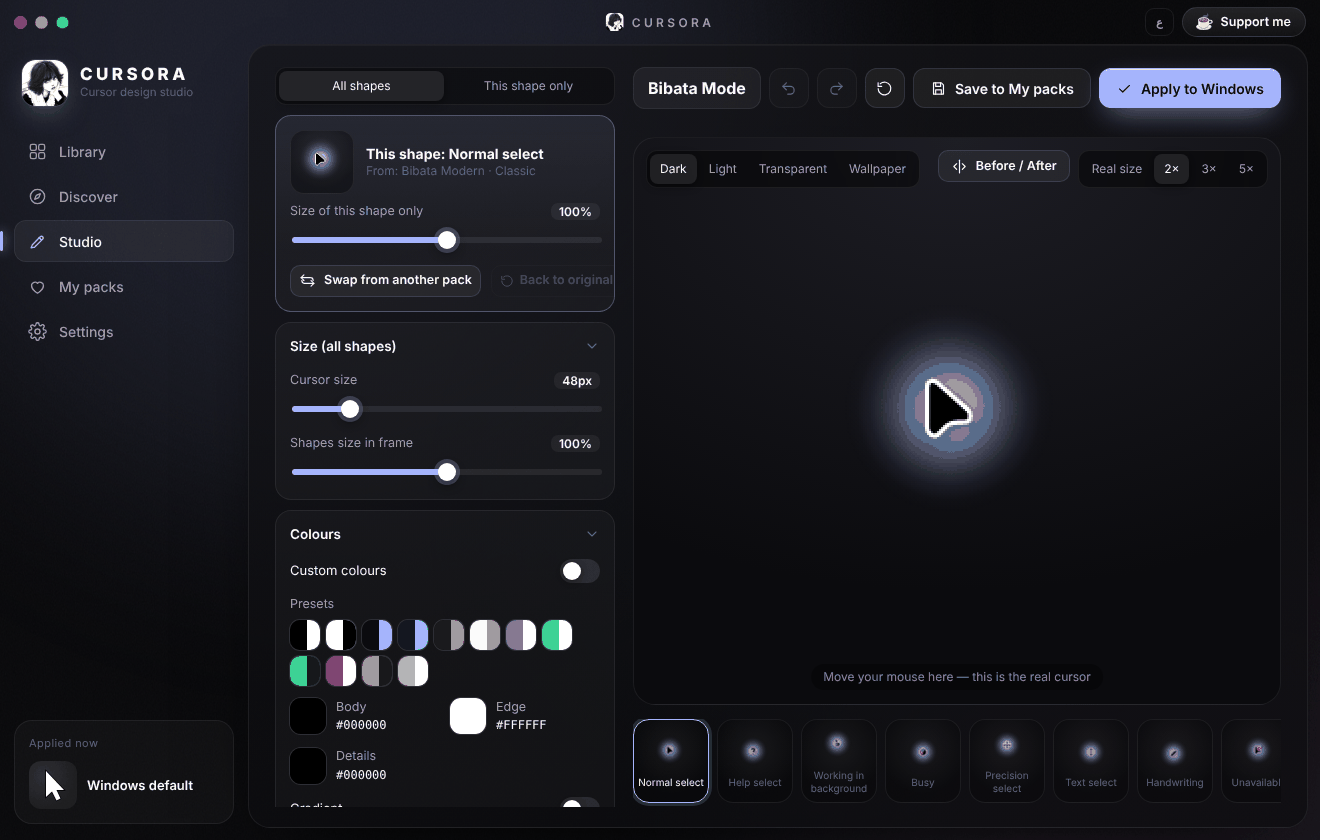
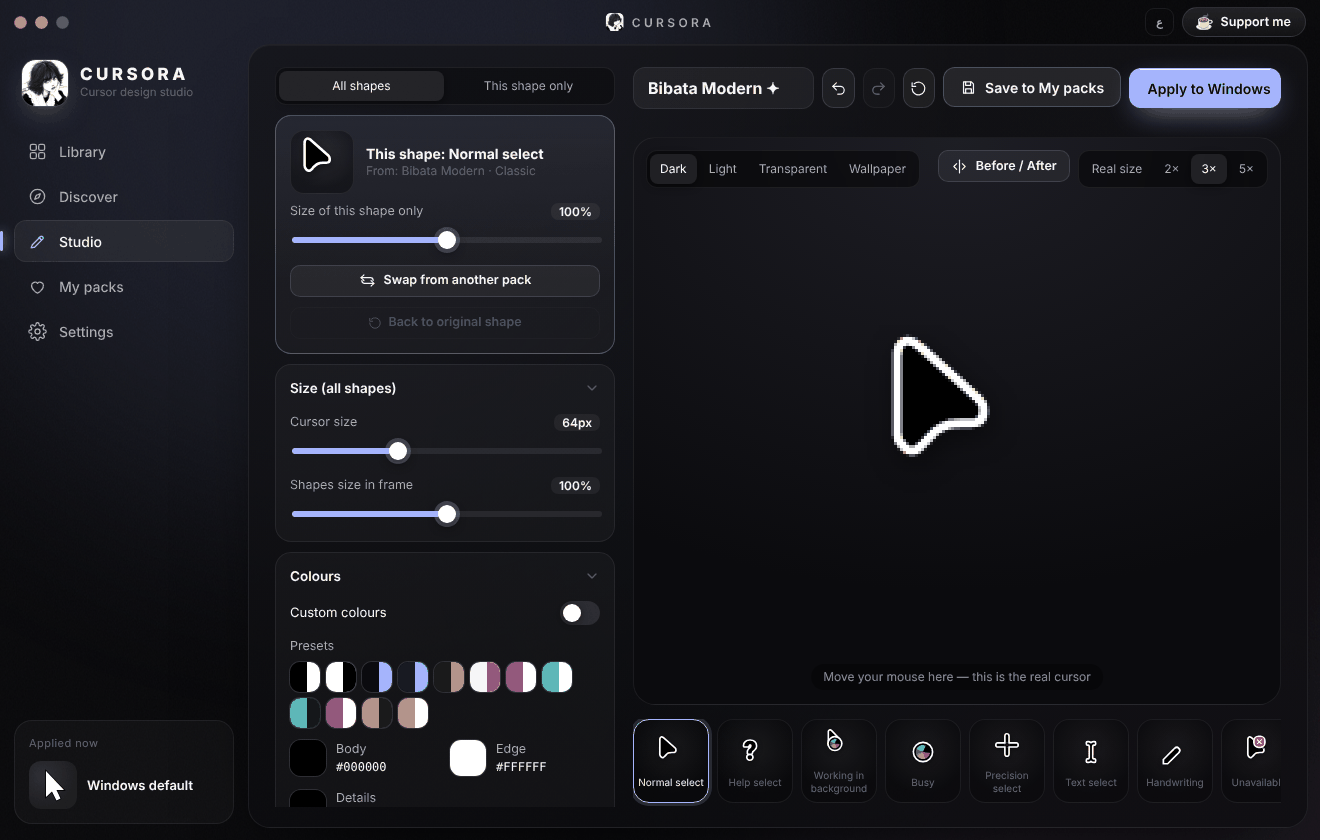
Shape card buttons wrap instead of overflowing; new studio screenshot

diff --git a/ui/styles.css b/ui/styles.css
@@ -350,7 +350,8 @@ select option { background: #18181b; }
 .shape-thumb { width: 64px; height: 64px; flex: none; border-radius: 14px; display: grid; place-items: center; background: radial-gradient(circle at 50% 35%, rgba(255,255,255,.08), transparent 70%), rgba(0,0,0,.35); border: 1px solid var(--line); }
 .shape-thumb canvas { width: 56px; height: 56px; }
 .shape-t { font: 700 14px var(--font-d); }
-.shape-sec .row2 .btn { width: 100%; padding: 0 8px; }
+.shape-sec .row2 { display: flex; flex-wrap: wrap; }
+.shape-sec .row2 .btn { flex: 1 1 auto; padding: 0 10px; white-space: nowrap; }
 .btn:disabled { opacity: .4; pointer-events: none; }
 .overlay.picker { place-items: stretch; padding: 40px 48px; }
 .pk-card { display: grid; grid-template-columns: 260px minmax(0, 1fr); border-radius: 26px; overflow: hidden; background: rgba(18,18,22,.97); border: 1px solid var(--line2); box-shadow: 0 50px 120px -30px #000; animation: tin .45s var(--spring); min-height: 0; }
